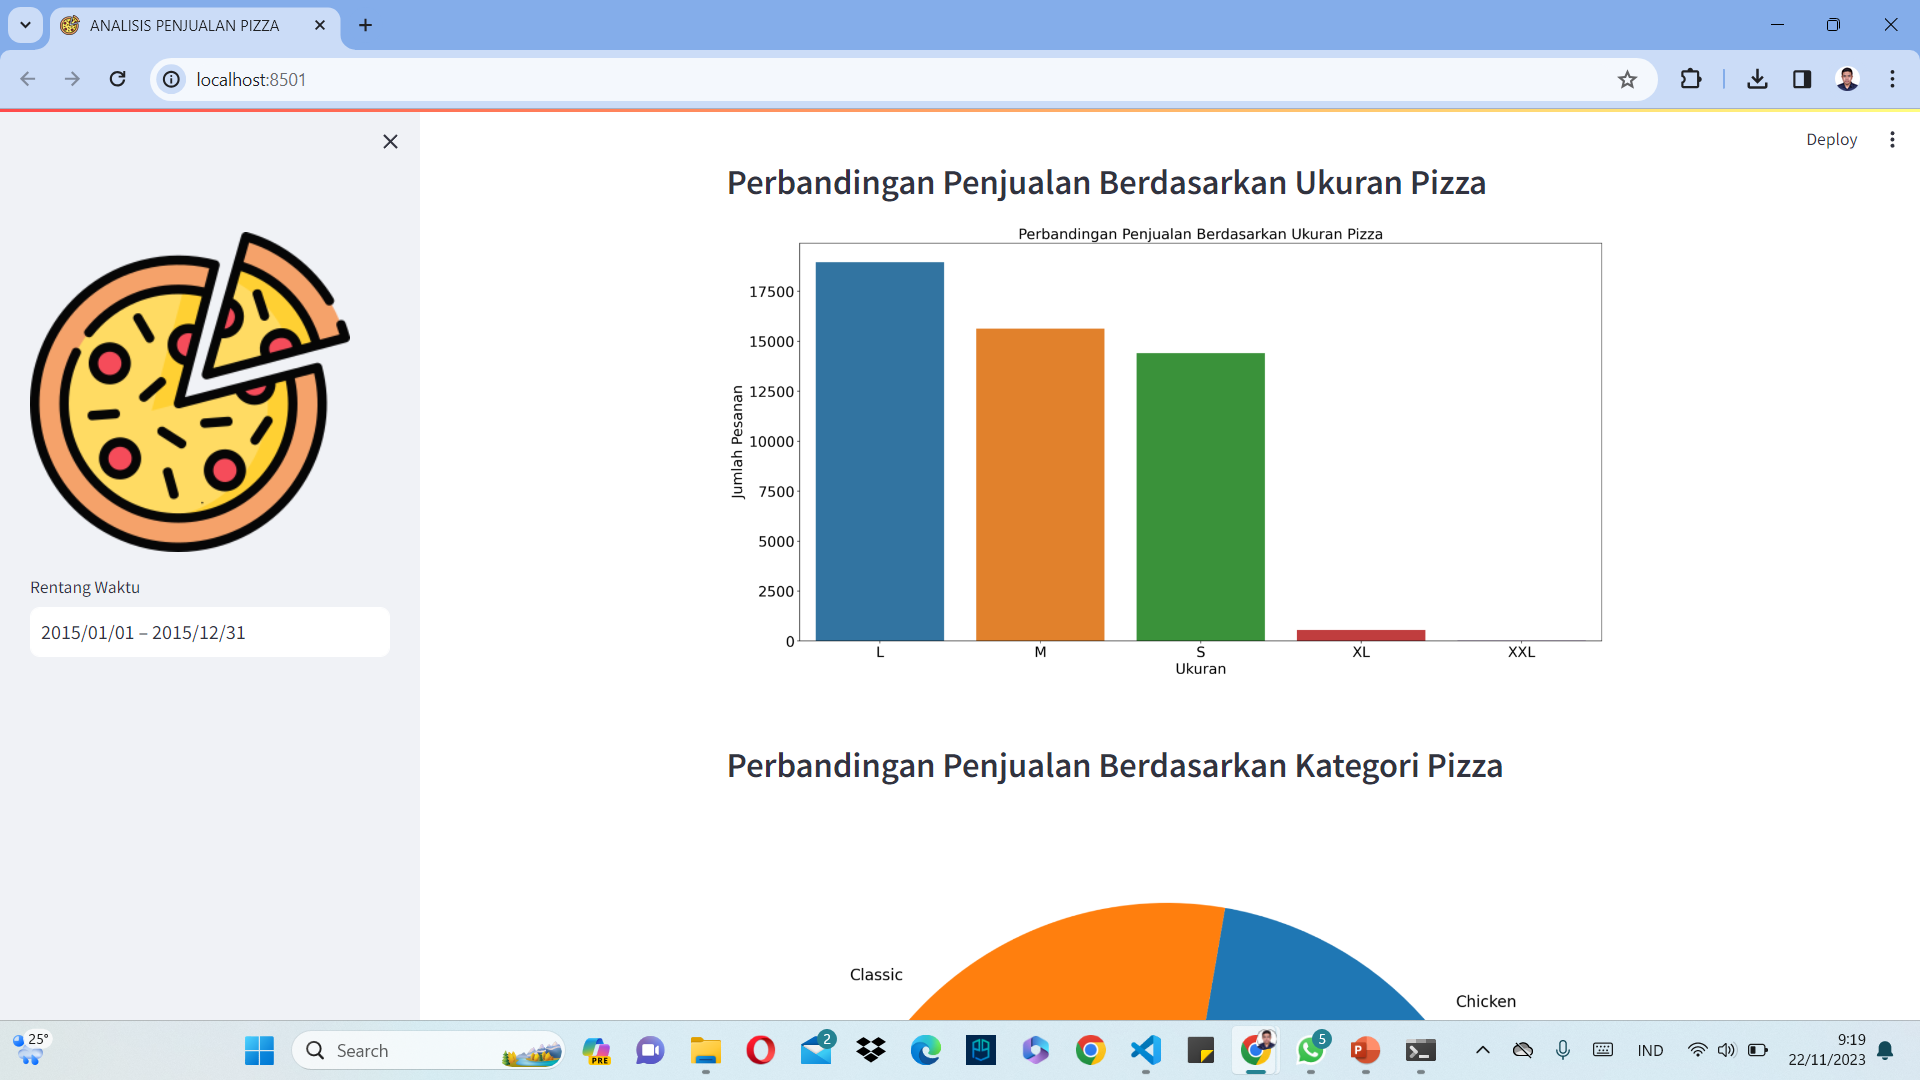
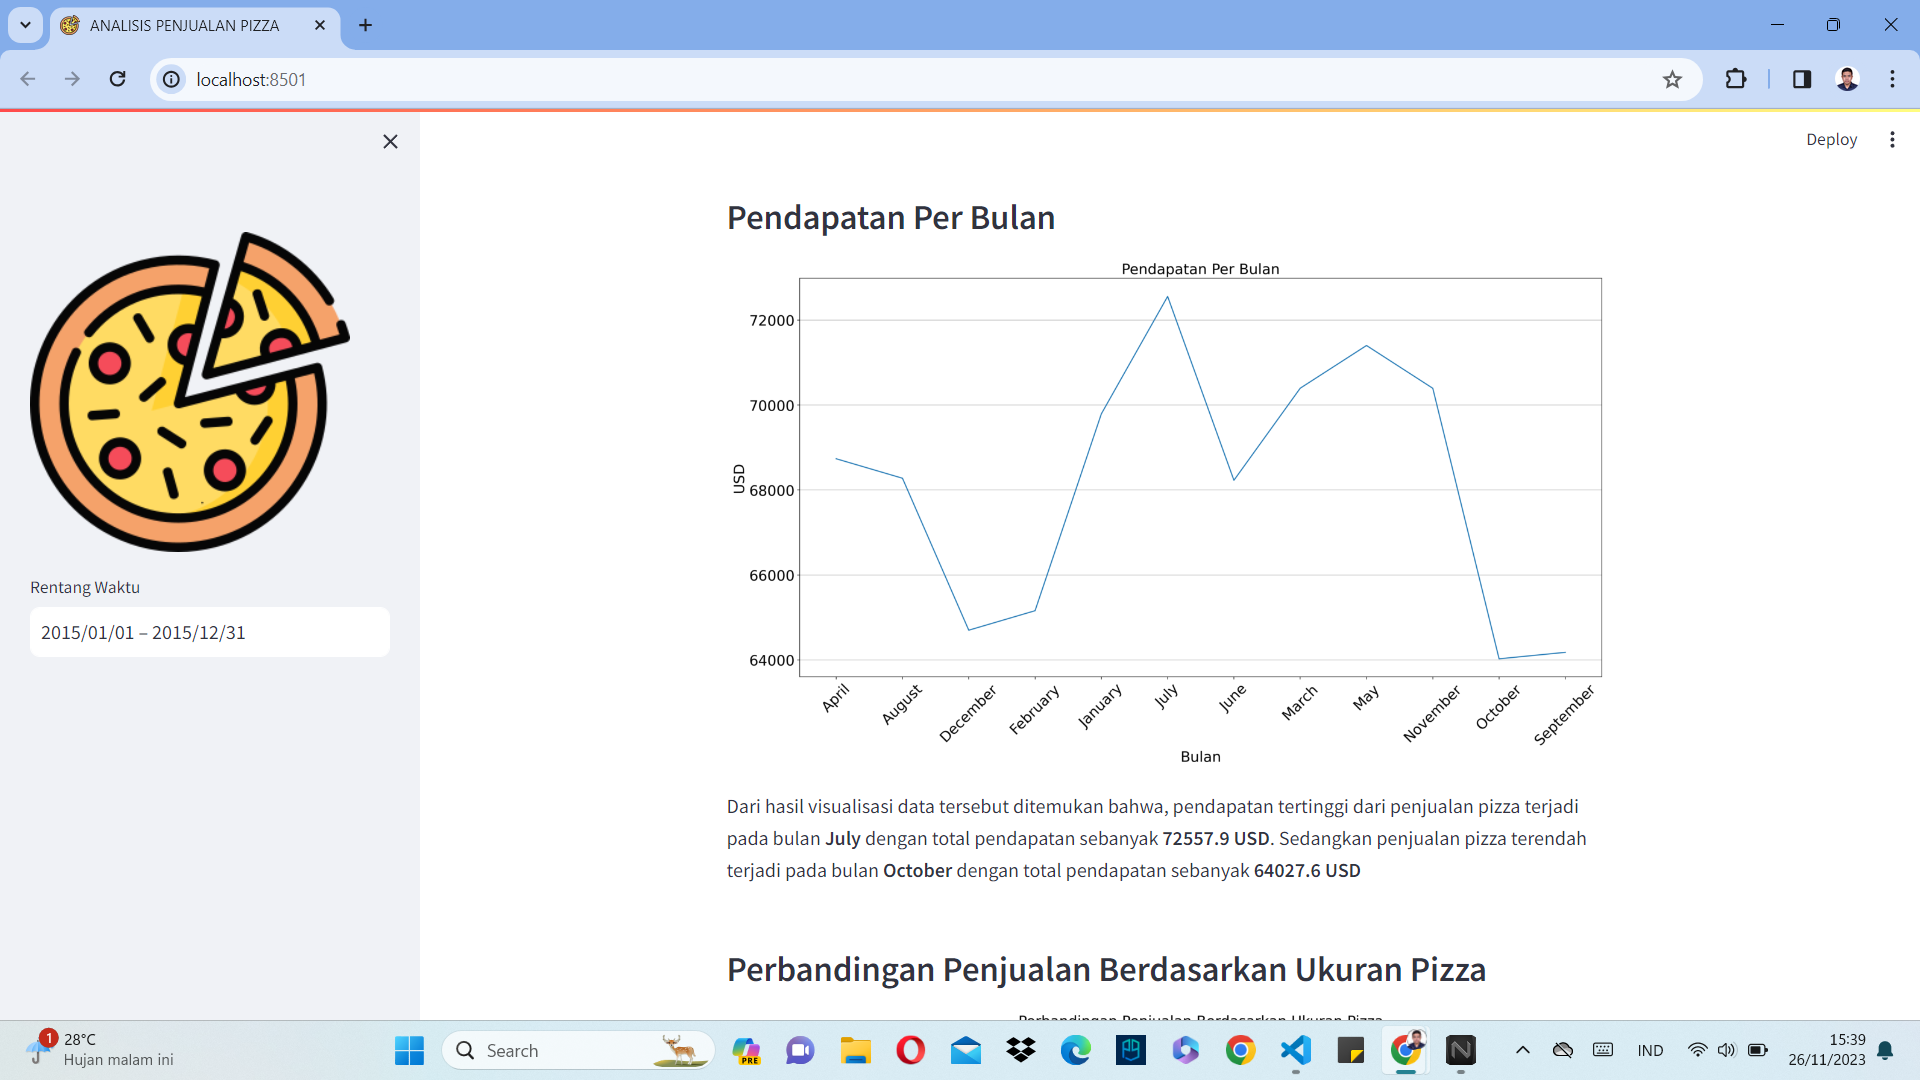
update dashboard.py, screenshot, and README.md

diff --git a/dashboard/dashboard.py b/dashboard/dashboard.py
@@ -73,10 +73,10 @@ order_per_bulan = create_order_per_bulan(main_df)
 pendapatan_per_bulan = create_pendapatan_per_bulan(main_df)
 ukuran_pizza = create_ukuran_pizza(main_df)
 kategori_pizza = create_kategori_pizza(main_df)
-nama_pizza = create_nama_pizza_df(main_df)
+nama_pizza = create_nama_pizza_df(main_df).head()
 
 st.header("ANALISIS PENJUALAN PIZZA")
-
+st.write('Analisis penjualan pizza dapat memberikan sejumlah manfaat bagi bisnis restoran atau toko pizza. Diantara manfaatnya itu adalah dapat mengoptimasi menu, pengelolaan persediaan, strategi harga, dan masih banyak lagi. Analisis penjualan pizza yang baik memberikan data yang menarik kepada suatu restoran. Untuk memudahkan proses penyampaian data, maka digunakanlah teknik visualisasi data.')
 
 st.subheader("Perbandingan Penjualan Harian")
 plt.figure(figsize=(20, 7))
@@ -87,6 +87,15 @@ plt.ylabel("Total Pesanan", fontsize=20)
 plt.tick_params(axis='y', labelsize=20)
 plt.tick_params(axis='x', labelsize=20)
 st.pyplot(plt)
+
+hari_tinggi = order_per_hari.index[0]
+hari_terendah = order_per_hari.index[-1]
+penjualan_tinggi = order_per_hari.iloc[0]
+penjualan_terendah = order_per_hari.iloc[-1]
+
+st.write(
+    f"Dari hasil visualisasi data tersebut ditemukan bahwa, penjualan pizza tertinggi terjadi pada hari : **{hari_tinggi}** dengan total penjualan sebanyak **{penjualan_tinggi}**. Sedangkan penjualan pizza terendah terjadi pada hari **{hari_terendah}** dengan total penjualan sebanyak **{penjualan_terendah}**")
+
 
 st.markdown("<br>", unsafe_allow_html=True)
 
@@ -99,6 +108,14 @@ plt.ylabel("Bulan", fontsize=20)
 plt.tick_params(axis='y', labelsize=20)
 plt.tick_params(axis='x', labelsize=20)
 st.pyplot(plt)
+
+bulan_tinggi = order_per_bulan.index[0]
+bulan_terendah = order_per_bulan.index[-1]
+penjualan_bulan_tinggi = order_per_bulan.iloc[0]
+penjualan_bulan_terendah = order_per_bulan.iloc[-1]
+
+st.write(
+    f"Dari hasil visualisasi data tersebut ditemukan bahwa, penjualan pizza tertinggi terjadi pada bulan : **{bulan_tinggi}** dengan total penjualan sebanyak **{penjualan_tinggi}**. Sedangkan penjualan pizza terendah terjadi pada bulan **{bulan_terendah}** dengan total penjualan sebanyak **{penjualan_terendah}**")
 
 st.markdown("<br>", unsafe_allow_html=True)
 
@@ -114,6 +131,17 @@ plt.tick_params(axis='y', labelsize=20)
 plt.grid(axis='y')
 st.pyplot(plt)
 
+analisis_pendapatan = pendapatan_per_bulan.sort_values(ascending=False)
+
+bulan_pendapatan_tinggi = analisis_pendapatan.index[0]
+bulan_pendapatan_terendah = analisis_pendapatan.index[-1]
+pendapatan_bulan_tinggi = analisis_pendapatan.iloc[0]
+pendapatan_bulan_terendah = analisis_pendapatan.iloc[-1]
+
+st.write(
+    f"Dari hasil visualisasi data tersebut ditemukan bahwa, pendapatan tertinggi dari penjualan pizza terjadi pada bulan **{bulan_pendapatan_tinggi}** dengan total pendapatan sebanyak **{pendapatan_bulan_tinggi} USD**. Sedangkan penjualan pizza terendah terjadi pada bulan **{bulan_pendapatan_terendah}** dengan total pendapatan sebanyak **{pendapatan_bulan_terendah} USD**")
+
+
 st.markdown("<br>", unsafe_allow_html=True)
 
 st.subheader('Perbandingan Penjualan Berdasarkan Ukuran Pizza')
@@ -126,6 +154,15 @@ plt.tick_params(axis='x', labelsize=20)
 plt.tick_params(axis='y', labelsize=20)
 st.pyplot(plt)
 
+
+ukuran_terlaris = ukuran_pizza.index[0]
+ukuran_kurang_laris = ukuran_pizza.index[-1]
+total_penjualan_laris = ukuran_pizza.iloc[0]
+total_penjualan_kurang = ukuran_pizza.iloc[-1]
+
+st.write(
+    f"Dari hasil visualisasi data tersebut ditemukan bahwa, ukuran pizza terlaris diduduki oleh ukuran **{ukuran_terlaris}** dengan total penjualan sebanyak **{total_penjualan_laris} buah**. Sedangkan ukuran pizza paling rendah penjualannnya yaitu ukuran **{ukuran_kurang_laris}** dengan total penjualan sebanyak **{total_penjualan_kurang} buah**")
+
 st.markdown("<br>", unsafe_allow_html=True)
 
 st.subheader('Perbandingan Penjualan Berdasarkan Kategori Pizza')
@@ -134,11 +171,20 @@ pie = ax.pie(kategori_pizza.values,
              labels=kategori_pizza.index, autopct='%1.2f%%')
 st.pyplot(fig)
 
+
+kategori_terlaris = kategori_pizza.idxmax()
+kategori_kurang_laris = kategori_pizza.idxmin()
+total_kategori_laris = kategori_pizza.max()
+total_kategori_kurang = kategori_pizza.min()
+
+st.write(
+    f"Dari hasil visualisasi data tersebut ditemukan bahwa, kategori pizza terlaris adalah kategori **{kategori_terlaris}** dengan total penjualan sebanyak **{total_kategori_laris} buah**. Sedangkan kateogri pizza paling rendah penjualannnya yaitu ukuran **{kategori_kurang_laris}** dengan total penjualan sebanyak **{total_kategori_kurang} buah**")
+
 st.markdown("<br>", unsafe_allow_html=True)
 
-st.subheader('Pizza Terlaris')
+st.subheader('Top 5 Pizza Terlaris')
 plt.figure(figsize=(20, 10))
-sns.barplot(x=nama_pizza.head().index, y=nama_pizza.head().values)
+sns.barplot(x=nama_pizza.index, y=nama_pizza.head().values)
 plt.title('5 Pizza Terlaris', fontsize=20)
 plt.xlabel('Nama Pizza', fontsize=20)
 plt.xticks(rotation=90)
@@ -146,3 +192,11 @@ plt.ylabel('Jumlah Pesanan', fontsize=20)
 plt.tick_params(axis='x', labelsize=20)
 plt.tick_params(axis='y', labelsize=20)
 st.pyplot(plt)
+
+kategori_terlaris = nama_pizza.idxmax()
+kategori_kurang_laris = nama_pizza.idxmin()
+total_kategori_laris = nama_pizza.max()
+total_kategori_kurang = nama_pizza.min()
+
+st.write(
+    f"Hasil visualisasi data diatas merupakan top 5 nama pizza terlaris dalam periode tertentu. Dari hasil visualisasi data tersebut ditemukan bahwa, nama pizza terlaris pada posisi pertama adalah **{kategori_terlaris}** dengan total penjualan sebanyak **{total_kategori_laris} buah**. Sedangkan pada posisi kelimad ditempati oleh **{kategori_kurang_laris}** dengan total penjualan sebanyak **{total_kategori_kurang} buah**")

diff --git a/README.md b/README.md
@@ -28,12 +28,14 @@ streamlit run dashboard.py
 
 ![GAMBAR 1](screenshot/image.png)
 
-![GAMBAR 2](screenshot/image-5.png)
+![GAMBAR 2](screenshot/image-1.png)
 
-![GAMBAR 3](screenshot/image-1.png)
+![GAMBAR 3](screenshot/image-2.png)
 
-![GAMBAR 4](screenshot/image-2.png)
+![GAMBAR 4](screenshot/image-3.png)
 
-![GAMBAR 5](screenshot/image-3.png)
+![GAMBAR 5](screenshot/image-4.png)
 
-![GAMBAR 6](screenshot/image-4.png)
+![GAMBAR 6](screenshot/image-5.png)
+
+![GAMBAR 7](screenshot/image-6.png)
